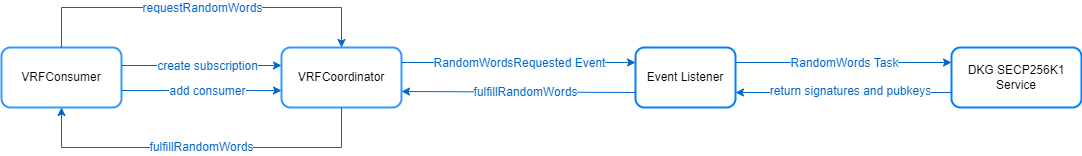
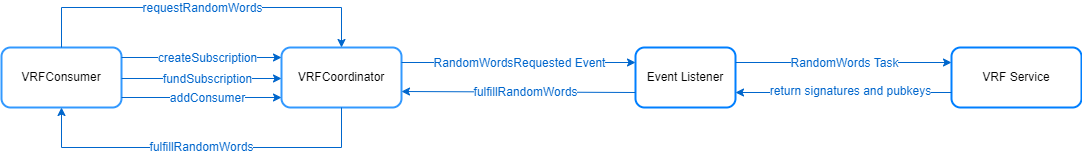
update readme

Changed region(s): [[0.122, 0.3333, 0.2745, 0.5385], [0.8845, 0.4103, 1.0, 0.5897], [0.122, 0.5641, 0.2745, 0.6667]]

diff --git a/README.md b/README.md
@@ -10,15 +10,16 @@ The brief contract structure design is as follows:
 
 ![contracts_overview](./imgs/contracts_overview.png)
 
-- DKG SECP256K1 Service : a distributed signature service in which multiple nodes generate a public key and collaborate to generate a threshold signature, which can be verified by the public key.
+- VRF Service : A service that uses the ECDSA key algorithm to generate unpredictable and verifiable random numbers that are also unique, collision resistant, and random.
 
 ## How to use
 
-[VRFConsumerV2.sol](https://github.com/realran/VRFContract/blob/main/sample/VRFConsumerV2.sol) is a sample contract, you can refer to this contract and do the following steps to easily enable VRF integration :
+[VRFConsumerV2.sol](https://github.com/realran/VRFContract/blob/vrf2.1/sample/VRFConsumerV2.sol) is a sample contract, you can refer to this contract and do the following steps to easily enable VRF integration :
 
 1. Get the `Key Hash` and `VRFCoordinator` address based on the network in the and update the `keyHash` and `vrfCoordinator` address in the  `VRFConsumerV2.sol`.
 2. Deploy the `VRFConsumerV2.sol` contract. This example contract includes the `createNewSubscription()` function in the `constructor()` that creates the subscription and adds itself as a consumer automatically when you deploy it.
-3. Call the `requestRandomWords()` function in the `VRFConsumerV2.col` contract to asynchronously request random values which are returned via the callback function `fulfillRandomWords()`.
+3. Directly use the wallet account to recharge the subscription by calling the fundSubscription method of the VRCoordinator contract.
+4. Call the `requestRandomWords()` function in the `VRFConsumerV2.col` contract to asynchronously request random values which are returned via the callback function `fulfillRandomWords()`.
 
 ## License
 
